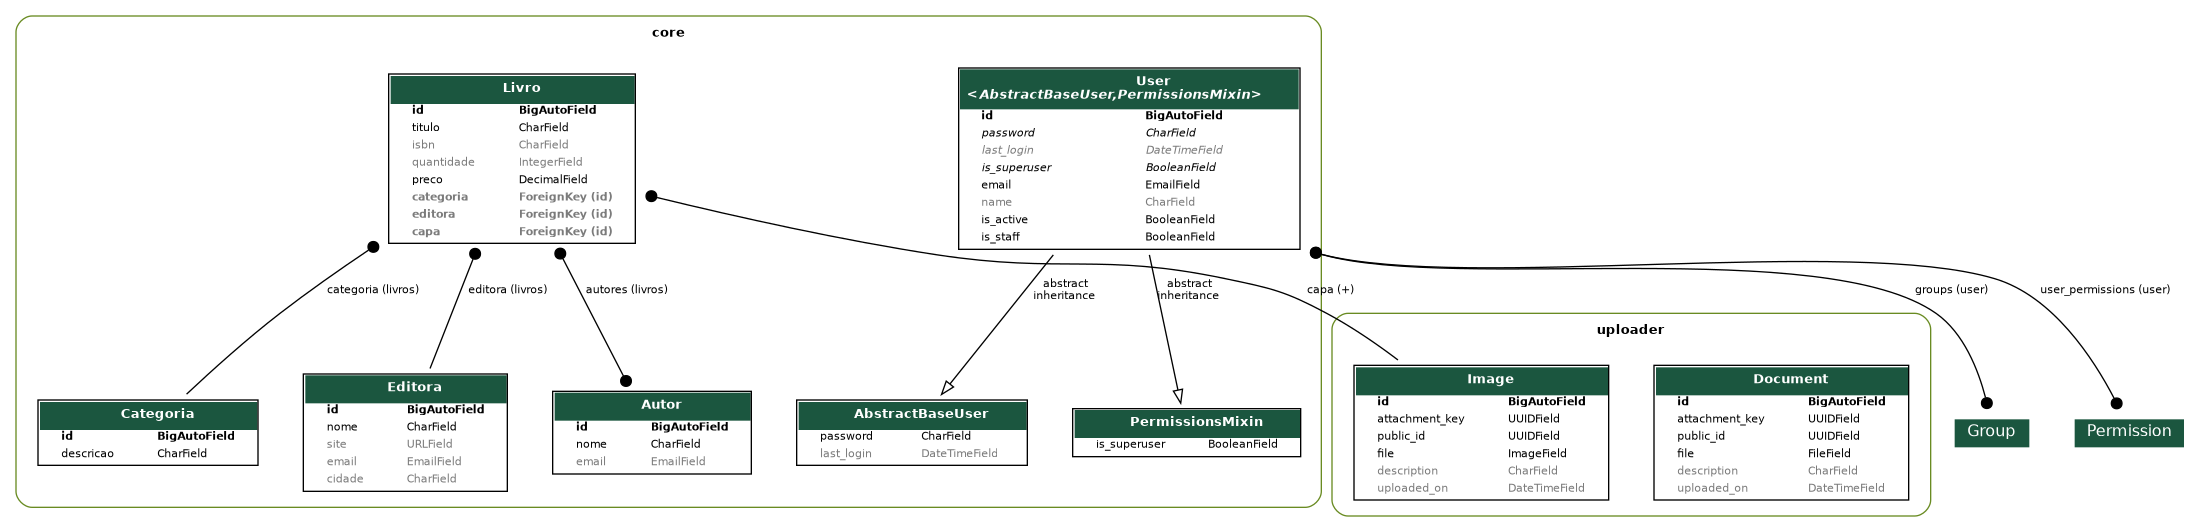
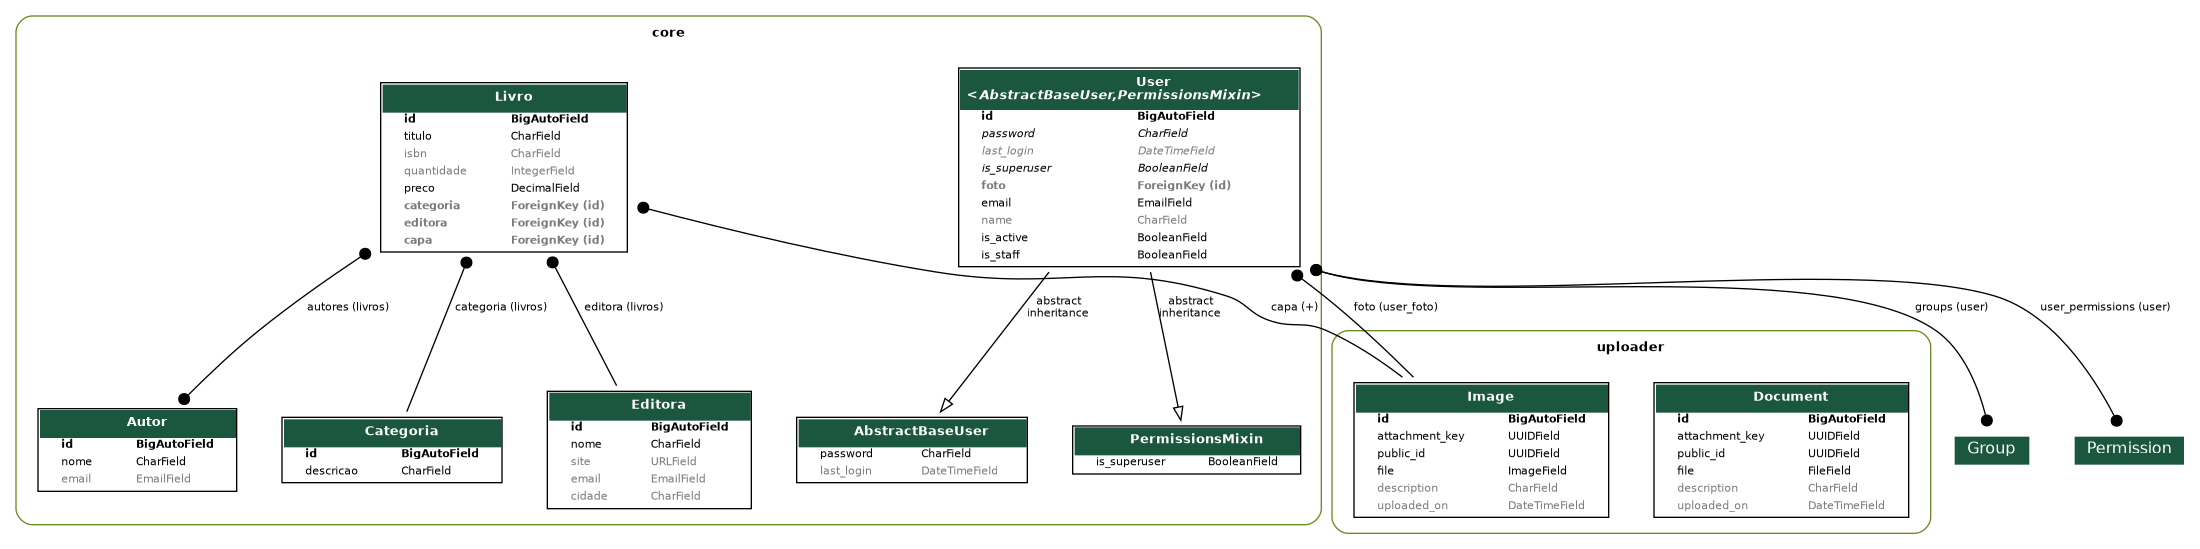
FEAT: adicionando campo de foto no usuário e correções no Admin

diff --git a/core/migrations/0012_user_foto.py b/core/migrations/0012_user_foto.py
@@ -1,0 +1,20 @@
+# Generated by Django 5.2.13 on 2026-05-12 19:35
+
+import django.db.models.deletion
+from django.db import migrations, models
+
+
+class Migration(migrations.Migration):
+
+    dependencies = [
+        ('core', '0011_editora_cidade_editora_email'),
+        ('uploader', '0001_initial'),
+    ]
+
+    operations = [
+        migrations.AddField(
+            model_name='user',
+            name='foto',
+            field=models.ForeignKey(blank=True, default=None, null=True, on_delete=django.db.models.deletion.SET_NULL, related_name='user_foto', to='uploader.image'),
+        ),
+    ]

diff --git a/core/models/user.py b/core/models/user.py
@@ -1,7 +1,3 @@
-"""
-Database models.
-"""
-
 from django.contrib.auth.models import (
     AbstractBaseUser,
     BaseUserManager,
@@ -9,7 +5,7 @@ from django.contrib.auth.models import (
 )
 from django.db import models
 from django.utils.translation import gettext_lazy as _
-
+from uploader.models import Image
 
 class UserManager(BaseUserManager):
     """Manager for users."""
@@ -39,7 +35,14 @@ class UserManager(BaseUserManager):
 
 class User(AbstractBaseUser, PermissionsMixin):
     """User model in the system."""
-
+    foto = models.ForeignKey(
+        Image,
+        related_name='user_foto',
+        on_delete=models.SET_NULL,
+        null=True,
+        blank=True,
+        default=None,
+    )
     email = models.EmailField(max_length=255, unique=True, verbose_name=_('email'), help_text=_('Email'))
     name = models.CharField(max_length=255, blank=True, null=True, verbose_name=_('name'), help_text=_('Username'))
     is_active = models.BooleanField(

diff --git a/core/admin.py b/core/admin.py
@@ -51,6 +51,7 @@ class UserAdmin(BaseUserAdmin):
 
     ordering = ['id']
     list_display = ['email', 'name']
+    search_fields = ('email', 'name', 'groups__name')
     fieldsets = (
         (None, {'fields': ('email', 'password')}),
         (_('Personal Info'), {'fields': ('name',)}),
@@ -75,10 +76,11 @@ class UserAdmin(BaseUserAdmin):
             {
                 'classes': ('wide',),
                 'fields': (
+                    'foto',
                     'email',
+                    'name',
                     'password1',
                     'password2',
-                    'name',
                     'is_active',
                     'is_staff',
                     'is_superuser',

diff --git a/core/serializers/user.py b/core/serializers/user.py
@@ -7,7 +7,7 @@ from core.models import User
 class UserSerializer(ModelSerializer):
     class Meta:
         model = User
-        fields = ['id', 'email', 'name', 'is_active', 'is_staff', 'is_superuser', 'last_login', 'groups']
+        fields = ['id', 'email', 'foto', 'name', 'is_active', 'is_staff', 'is_superuser', 'last_login', 'groups']
         depth = 1
 
 

diff --git a/app/settings.py b/app/settings.py
@@ -147,6 +147,7 @@ AUTH_USER_MODEL = 'core.User'
 # Configurações do Django REST Framework
 REST_FRAMEWORK = {
     'DEFAULT_AUTHENTICATION_CLASSES': ('rest_framework_simplejwt.authentication.JWTAuthentication',),
+    'DEFAULT_PERMISSION_CLASSES': ("rest_framework.permissions.DjangoModelPermissionsOrAnonReadOnly",),
     'DEFAULT_PAGINATION_CLASS': 'app.pagination.CustomPagination',
     'DEFAULT_SCHEMA_CLASS': 'drf_spectacular.openapi.AutoSchema',
     'PAGE_SIZE': 10,